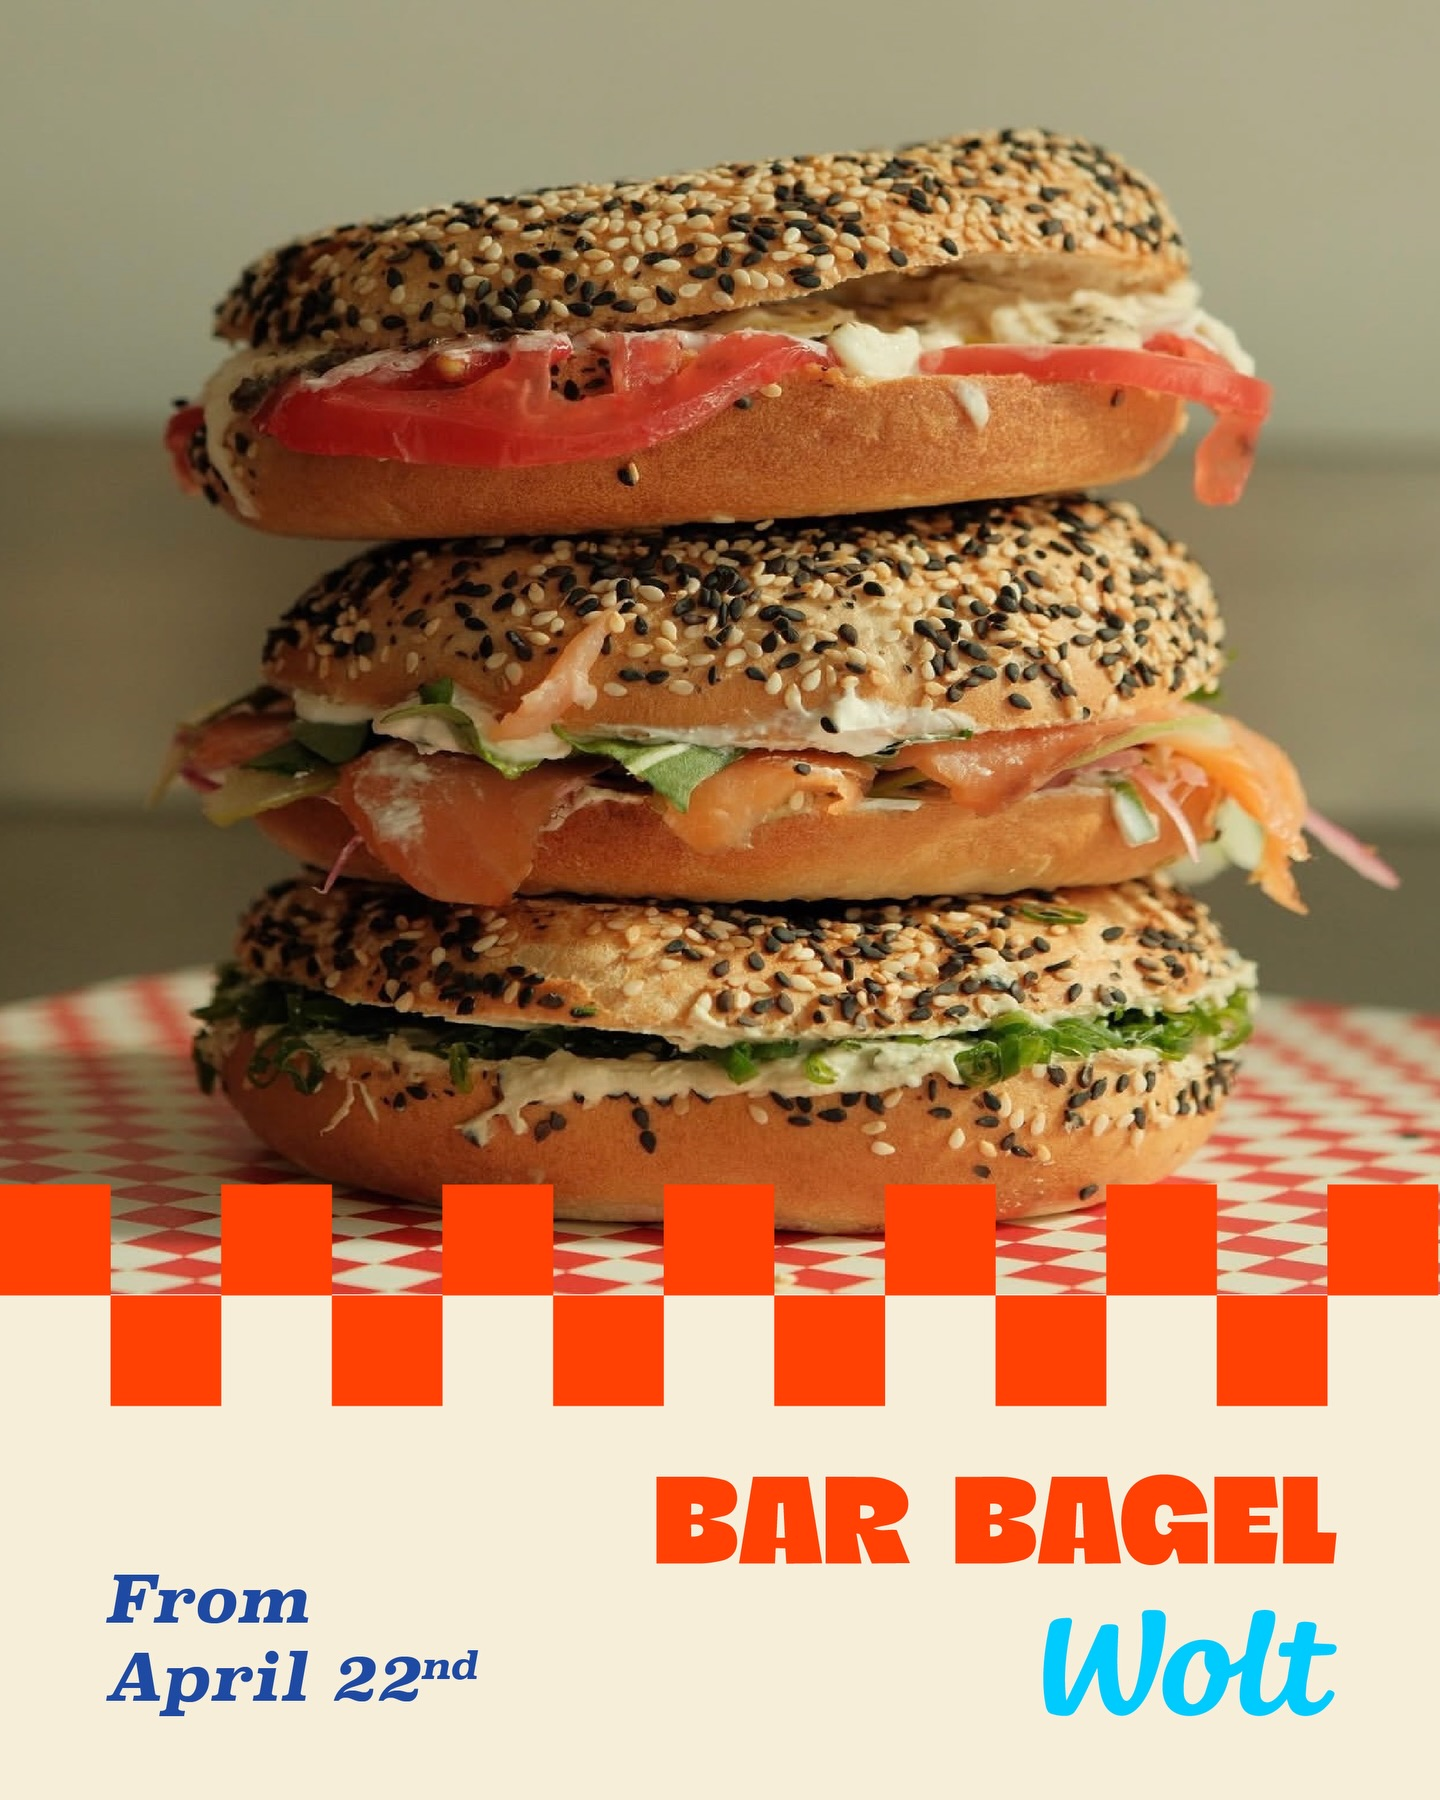
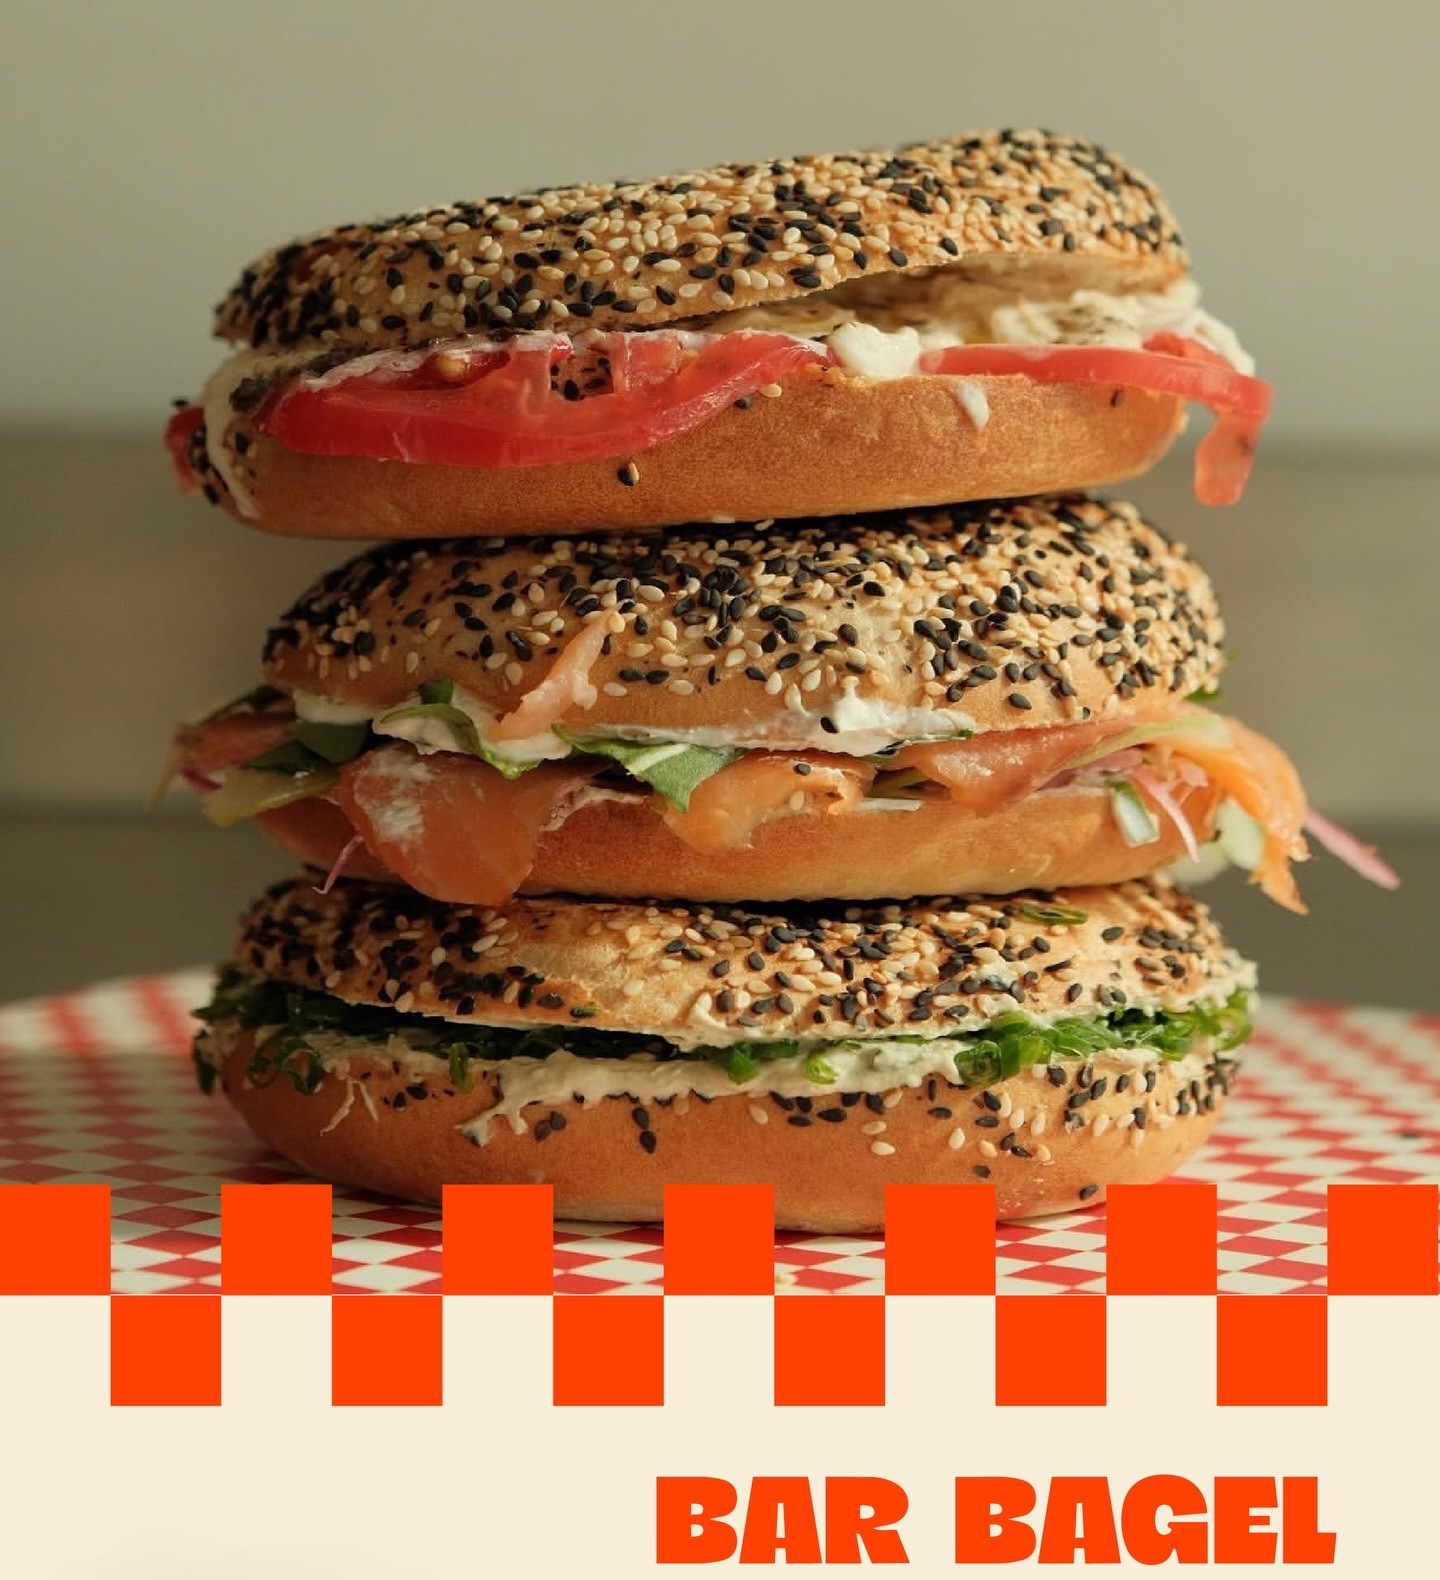
polished and added small features

diff --git a/index.html b/index.html
@@ -20,11 +20,22 @@
             <div class="header">
                 <img src="./assets/icons/logo.jpg" alt="Bagel Bar Logo" class="logo"/>
                 <span>Bar.Bagel</span> This is more than you see
+                <img src="./assets/images/spinner.png" alt="Spinning Bagel" class="spinning-bagel"/>
             </div>
             <div id="content-wrapper">
                 <div class="info-wrapper">
-                    <img src="assets/images/bagel-cover.jpg" alt="Bagel Cover" class="bagel-cover"/>
-                    <p class="info-text">A <span>BAGEL</span> is round bread with a distinct chewy texture and golden crust, known for its satisfying bite and versatility. Originally created in Eastern Europe, <span>BAGEL</span> have become popular worldwide as a staple food that works just as well for breakfast as it does for lunch, dinner, or a late-night snack. They can be filled with anything from cream cheese and smoked salmon to eggs, meats, or sweet spreads, making them one of the most adaptable breads out there.</p>
+                    <div class="info-image-container">
+                        <img src="assets/images/carousel%205.jpg" alt="Bagel Cover" class="bagel-cover"/>
+                    </div>
+                    <div class="info-content">
+                        <h2 class="info-title">THE NEW SHAPE OF <span>GEORGIAN BREAKFAST</span></h2>
+                        <p class="info-text">
+                            Originally an Eastern European treasure, the bagel has found a new home within the industrial walls of Tbilisi. We’ve brought that <strong>signature chewy bite</strong> and <strong>golden crust</strong> to the heart of the city.
+                        </p>
+                        <p class="info-text secondary">
+                            Whether you're fueling up for a day of remote work or recovering from a night at Bassiani, our bagels are the ultimate Tbilisi staple. From the classic schmear to bold new combos.
+                        </p>
+                    </div>
                 </div>
                 <div class="carousel-wrapper">
                     <div class="carousel">
@@ -42,18 +53,18 @@
                 <footer class="footer">
                     <div class="footer-column">
                         <span class="footer-label">Navigation</span>
-                        <a href="#" class="footer-link">Products</a>
-                        <a href="#" class="footer-link">Location</a>
+                        <a href="menu.html" class="footer-link">Products</a>
+                        <a href="https://maps.app.goo.gl/dVbvqjYQvcwrm8Yn8" class="footer-link">Location</a>
                     </div>
                     <div class="footer-column">
                         <span class="footer-label">Contact</span>
-                        <p>Bar.Bagel@gmail.com</p>
-                        <p>+995 564 854 758</p>
+                        <p class="footer-text">Bar.Bagel@gmail.com</p>
+                        <p class="footer-text">+995 564 854 758</p>
                     </div>
                     <div class="footer-column">
                         <span class="footer-label">Visit Us</span>
-                        <p>Fabrika Tbilisi</p>
-                        <p>Fabrika.Tbilisi@gmail.com</p>
+                        <p class="footer-text">Fabrika Tbilisi</p>
+                        <p class="footer-text">Fabrika.Tbilisi@gmail.com</p>
                     </div>
                 </footer>
             </div>

diff --git a/styles/index.css b/styles/index.css
@@ -88,26 +88,60 @@ span {
 }
 .info-wrapper {
     display: flex;
-    gap: 50px;
-    padding: 50px 20px 10px 20px;
+    align-items: center;
+    padding: 20px;
+    gap: 60px;
+}
 
+.info-image-container {
+
+}
+
+.bagel-cover {
+    height: 400px;
+    width: auto;
+    border-radius: 4px;
+    box-shadow: 15px 15px 0px #EC4724;
+}
+
+.info-content {
+    flex: 1.2;
+    padding: 0;
+    display: flex;
+    flex-direction: column;
+    gap: 10px;
+}
+
+.info-title {
+    font-family: "Bevan", serif;
+    font-size: 38px;
+    line-height: 1.1;
+    text-transform: uppercase;
+    margin: 0;
+}
+
+.info-text {
+    font-size: 19px;
+    line-height: 1.6;
+    max-width: 500px;
+    color: #333;
+    margin: 0;
+}
+
+.info-text.secondary {
+    font-size: 18px;
+    opacity: 0.8;
 }
 .bagel-cover {
     height: 300px;
     user-select: none;
 }
-.info-text {
-    font-size: 22px;
-}
+
 .carousel-wrapper {
     padding-left: 20px;
     padding-right: 20px;
     user-select: none;
 }
-
-
-
-
 .carousel {
     width: 100%;
     overflow: hidden;
@@ -170,9 +204,31 @@ span {
     font-size: 15px;
     font-weight: normal;
     border-radius: 0;
+    padding: 5px;
+}
+.footer-text {
+    margin: 0;
+    padding: 5px;
 }
 
 .footer-link:hover {
     color: #EC4724;
     font-weight: bold;
+}
+
+.spinning-bagel {
+    width: 30px;
+    height: 30px;
+    border-radius: 50%;
+    animation: spin 10s linear infinite;
+    display: inline-block;
+}
+
+@keyframes spin {
+    from {
+        transform: rotate(0deg);
+    }
+    to {
+        transform: rotate(360deg);
+    }
 }

diff --git a/styles/menu.css b/styles/menu.css
@@ -35,7 +35,7 @@ body {
     width: 100%;
     height: 70px;
     user-select: none;
-    position: relative; /* Necessary for z-index */
+    position: relative;
     transition: box-shadow 0.3s ease;
 }
 .navbar-shadow {
@@ -181,4 +181,21 @@ select {
 .footer-link:hover {
     color: #EC4724;
     font-weight: bold;
+}
+
+.spinning-bagel {
+    width: 30px;
+    height: 30px;
+    border-radius: 50%;
+    animation: spin 10s linear infinite;
+    display: inline-block;
+}
+
+@keyframes spin {
+    from {
+        transform: rotate(0deg);
+    }
+    to {
+        transform: rotate(360deg);
+    }
 }

diff --git a/menu.html b/menu.html
@@ -20,6 +20,7 @@
             <div class="header">
                 <img src="assets/icons/logo.jpg" alt="Bagel Bar Logo" class="logo"/>
                 <span>Bar.Bagel</span> This is more than you see
+                <img src="./assets/images/spinner.png" alt="Spinning Bagel" class="spinning-bagel"/>
             </div>
             <label for="sort"></label><select id="sort">
                 <option value="">Sort By</option>
